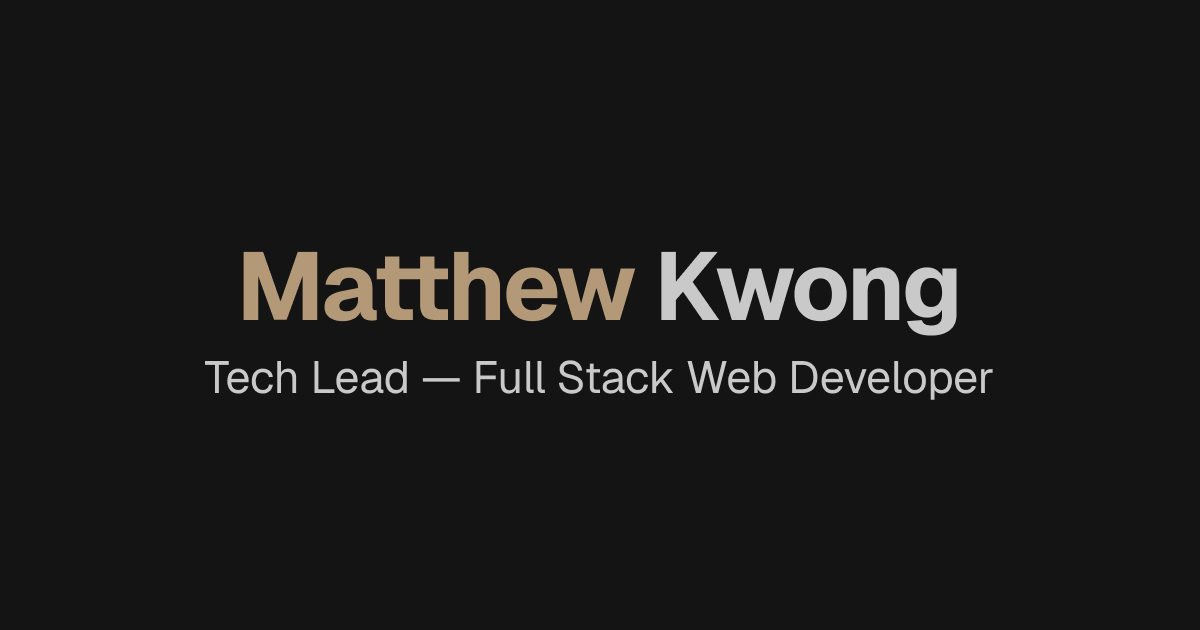
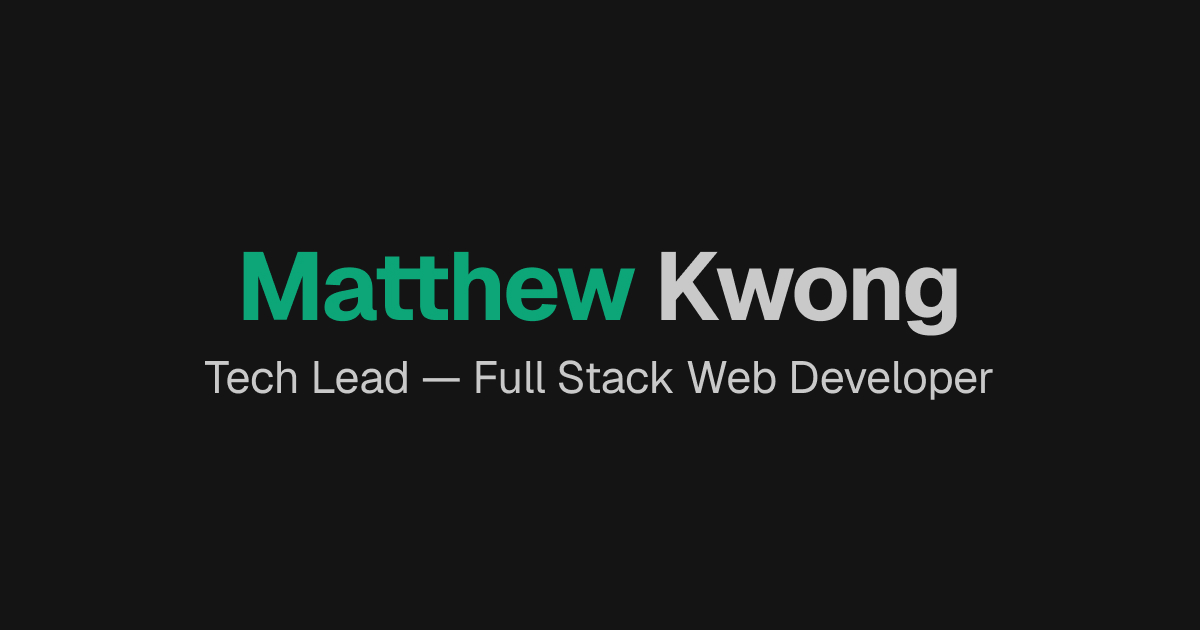
feat: change primary color back to teal

Changed region(s): [[0.185, 0.3921, 0.5242, 0.5127]]

diff --git a/src/app/layout.tsx b/src/app/layout.tsx
@@ -2,17 +2,11 @@ import "@mantine/core/styles.css";
 import "./global.css";
 
 import { ColorSchemeScript, mantineHtmlProps } from "@mantine/core";
-import {
-  type DefaultMantineColor,
-  type MantineColorsTuple,
-  MantineProvider,
-  createTheme,
-} from "@mantine/core";
 import { Analytics } from "@vercel/analytics/next";
 import { SpeedInsights } from "@vercel/speed-insights/next";
 import { type Metadata } from "next";
-import { Geist, Geist_Mono } from "next/font/google";
 
+import { ThemeProvider } from "@/components/theme-provider";
 import {
   description,
   displayTitle,
@@ -21,38 +15,6 @@ import {
   siteFqdn,
   siteName,
 } from "@/config";
-
-declare module "@mantine/core" {
-  export interface MantineThemeColorsOverride {
-    colors: Record<"primary" | DefaultMantineColor, MantineColorsTuple>;
-  }
-}
-
-const geist = Geist({ subsets: ["latin"] });
-const geistMono = Geist_Mono({ subsets: ["latin"], preload: false });
-
-const theme = createTheme({
-  fontFamily: geist.style.fontFamily,
-  fontFamilyMonospace: geistMono.style.fontFamily,
-  primaryColor: "primary",
-  primaryShade: { light: 9, dark: 4 },
-  colors: {
-    // camel
-    primary: [
-      "#fef4e7",
-      "#f1e8db",
-      "#ddcfbd",
-      "#c8b59b",
-      "#b39977",
-      "#ac906b",
-      "#a78960",
-      "#93754f",
-      "#836843",
-      "#735935",
-    ],
-  },
-  respectReducedMotion: true,
-});
 
 export const metadata: Metadata = {
   title: `${firstName} ${lastName} · ${displayTitle}`,
@@ -68,9 +30,7 @@ const RootLayout = ({ children }: LayoutProps<"/">) => (
       <ColorSchemeScript defaultColorScheme="auto" />
     </head>
     <body>
-      <MantineProvider defaultColorScheme="auto" theme={theme}>
-        {children}
-      </MantineProvider>
+      <ThemeProvider defaultColorScheme="auto">{children}</ThemeProvider>
       <Analytics />
       <SpeedInsights />
     </body>

diff --git a/src/components/theme-provider.tsx b/src/components/theme-provider.tsx
@@ -1,0 +1,50 @@
+"use client";
+
+import {
+  type CSSVariablesResolver,
+  MantineProvider,
+  type MantineProviderProps,
+  createTheme,
+} from "@mantine/core";
+import { Geist, Geist_Mono } from "next/font/google";
+
+const geist = Geist({ subsets: ["latin"] });
+const geistMono = Geist_Mono({ subsets: ["latin"], preload: false });
+
+const theme = createTheme({
+  fontFamily: geist.style.fontFamily,
+  fontFamilyMonospace: geistMono.style.fontFamily,
+  primaryColor: "teal",
+  primaryShade: { light: 9, dark: 7 },
+  respectReducedMotion: true,
+});
+
+const cssVariablesResolver: CSSVariablesResolver = ({
+  primaryColor,
+  primaryShade,
+  colors,
+}) => {
+  const primaryShadeDark =
+    typeof primaryShade === "number" ? primaryShade : primaryShade.dark;
+  return {
+    variables: {},
+    light: {},
+    dark: {
+      "--mantine-color-body": colors.dark[9],
+      "--mantine-color-teal-text": colors.teal[primaryShadeDark],
+      "--mantine-color-anchor": colors[primaryColor][primaryShadeDark],
+    },
+  };
+};
+
+export type ThemeProviderProps = Omit<
+  MantineProviderProps,
+  "theme" | "cssVariablesResolver"
+>;
+export const ThemeProvider = (props: ThemeProviderProps) => (
+  <MantineProvider
+    cssVariablesResolver={cssVariablesResolver}
+    theme={theme}
+    {...props}
+  />
+);

diff --git a/src/app/page.tsx b/src/app/page.tsx
@@ -34,7 +34,7 @@ const HomePage = () => (
           src={headShot}
         />
         <Title>
-          <Text c="primary" inherit span>
+          <Text c="teal" inherit span>
             {firstName}
           </Text>{" "}
           {lastName}

diff --git a/src/app/global.css b/src/app/global.css
@@ -1,9 +1,3 @@
-:root {
-  @mixin dark-root {
-    --mantine-color-body: var(--mantine-color-dark-9);
-  }
-}
-
 ::selection {
   background-color: var(--mantine-primary-color-light);
 }
